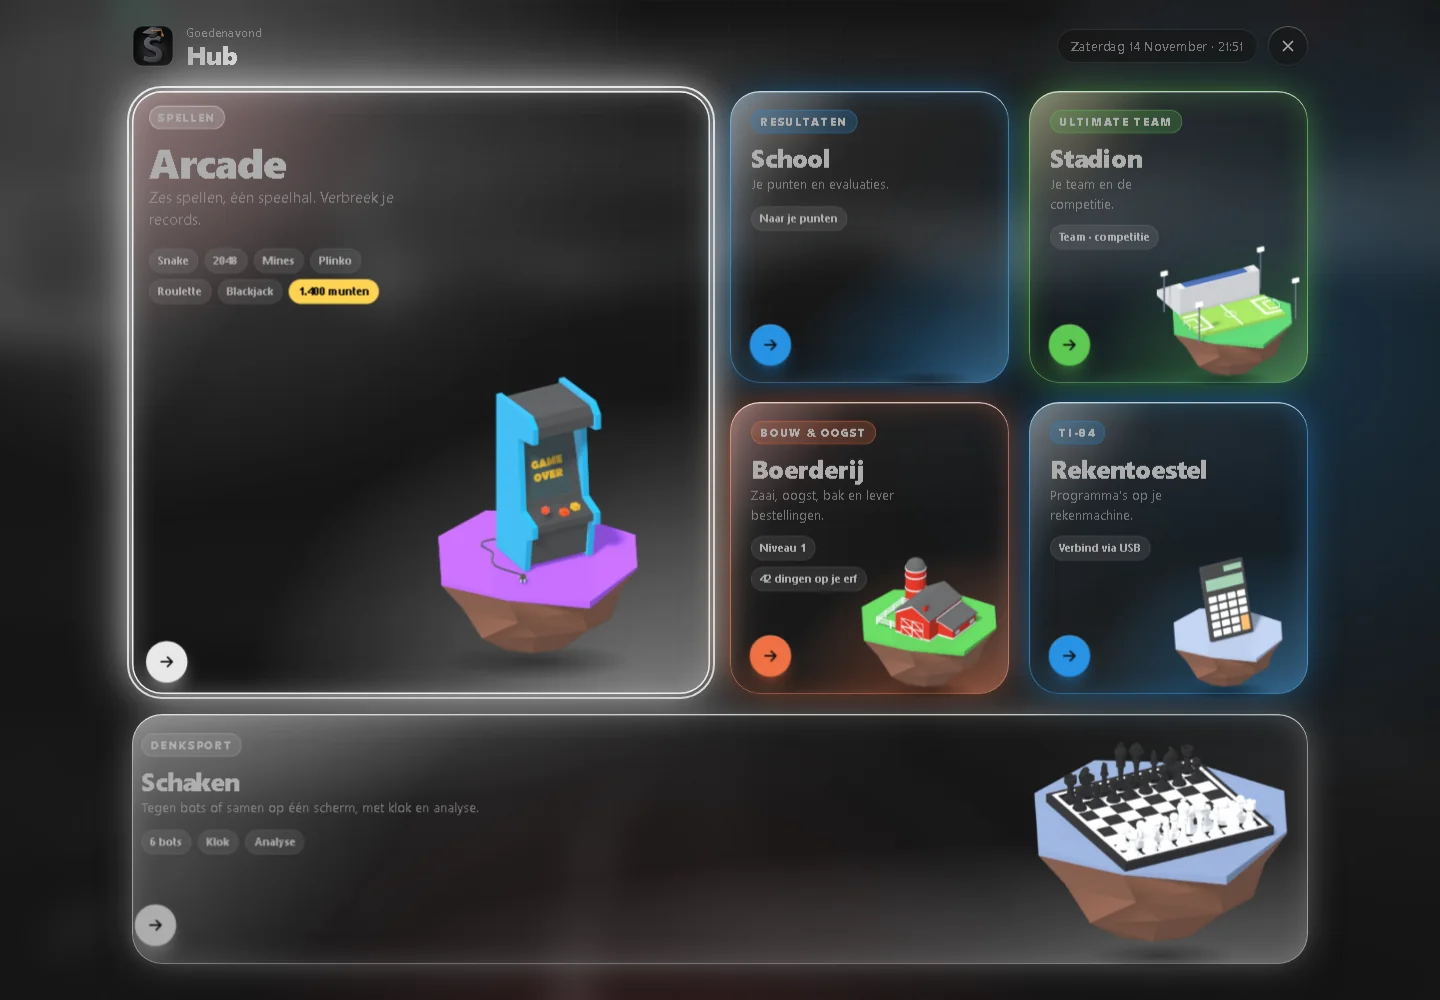
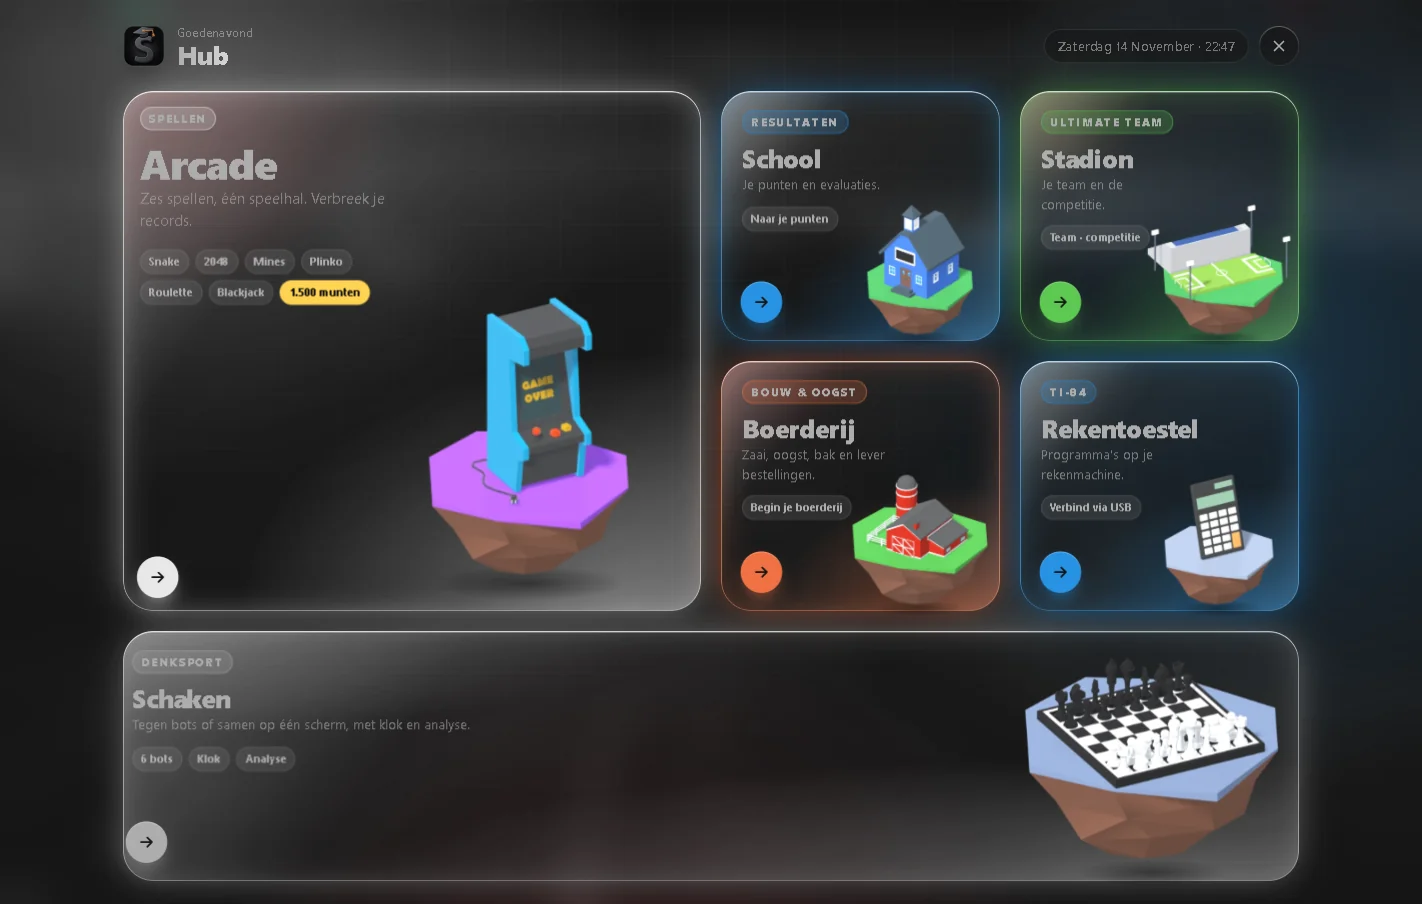
Update README: donate block above the hub, Deluxe hub screenshot, structure follows the TikTok

diff --git a/README.md b/README.md
@@ -5,8 +5,8 @@
 <h1 align="center">Smartschool Combined</h1>
 
 <p align="center">
-  The ultimate Smartschool upgrade: themes, a hub with games, Ultimate Team cards built from your grades, a class league, chess and more.<br>
-  <b>Free for Microsoft Edge.</b>
+  Smartschool, maar dan beter: thema's, een hub met games, Ultimate Team-kaarten van je cijfers, een klascompetitie, schaken en meer.<br>
+  <b>Gratis voor Microsoft Edge.</b> / Smartschool, but better: themes, a hub with games, Ultimate Team cards from your grades, a class league, chess and more.
 </p>
 
 <p align="center">
@@ -18,46 +18,60 @@
 </p>
 
 <p align="center">
-  <img src="assets/screenshots/hub.webp" alt="The Islands hub" width="860">
+  <b>Vind je het handig? Steun de ontwikkeling. / Like it? Support development.</b><br><br>
+  <a href="https://ko-fi.com/smartschoolcombined"><img src="https://img.shields.io/badge/Ko--fi-Trakteer%20op%20een%20koffie-FF5E5B?style=for-the-badge&logo=kofi&logoColor=white" alt="Doneer via Ko-fi"></a>
+  <a href="https://paypal.me/smartschoolcombined"><img src="https://img.shields.io/badge/PayPal-Doneer-00457C?style=for-the-badge&logo=paypal&logoColor=white" alt="Doneer via PayPal"></a>
 </p>
 
 <p align="center">
-  <b>Vind je het handig? Steun de ontwikkeling. / Like it? Support development.</b><br>
-  <a href="https://ko-fi.com/smartschoolcombined"><img src="https://img.shields.io/badge/Ko--fi-Trakteer%20op%20een%20koffie-FF5E5B?style=for-the-badge&logo=kofi&logoColor=white" alt="Doneer via Ko-fi"></a>
-  <a href="https://paypal.me/smartschoolcombined"><img src="https://img.shields.io/badge/PayPal-Doneer-00457C?style=for-the-badge&logo=paypal&logoColor=white" alt="Doneer via PayPal"></a>
+  <img src="assets/screenshots/hub.webp" alt="The Islands hub" width="860">
 </p>
 
 ---
 
 ## Nederlands
 
-Smartschool Combined is een browserextensie die Smartschool mooier en leuker maakt. Alles draait in je eigen browser, op de Smartschool-pagina zelf. Er is geen apart account nodig.
+**Smartschool, maar dan beter.** Smartschool Combined is een browserextensie die Smartschool mooier maakt en er spelletjes aan toevoegt. Alles draait in je eigen browser, op de Smartschool-pagina zelf. Er is geen apart account nodig.
 
-### Functies
-
-**Uiterlijk**
-- Thema's en live achtergronden (donker, licht, bergen, Japan, auto's, ruimte en meer), of een eigen thema met je eigen afbeelding.
+### 1. Pas het uiterlijk aan
 - Een vernieuwde inlogpagina in glass-stijl, met de knoppen voor Microsoft en de andere aanmeldopties.
-- Een transparante bovenbalk als je dat wilt.
+- Een transparante bovenbalk, als je dat wilt.
 - Widgets en notities op de startpagina.
 
-**Islands, de hub**
-Eén scherm met zes eilanden, te openen met de knop "Islands" bovenaan:
-- **Arcade**: Snake, 2048, Mines, Plinko, Roulette en Blackjack, met munten en records.
-- **School**: snel naar je punten en evaluaties.
+### 2. Kies je eigen stijl
+- Thema's en live achtergronden: donker, licht, bergen, Japan, auto's, ruimte en meer.
+- Of maak een eigen thema met je eigen afbeelding.
+
+### 3. Alles op één plek: de Islands-hub
+Eén scherm met zes eilanden, te openen met de knop "Islands" bovenaan. Elk eiland wordt hieronder verder uitgelegd.
+- **Arcade**: speelhal met games en munten.
 - **Stadion**: je Ultimate Team en de klascompetitie.
-- **Boerderij**: zaaien, oogsten, bakken en bestellingen leveren.
+- **Boerderij**: bouw je eigen boerderij.
+- **School**: snel naar je punten en evaluaties.
 - **Schaken**: tegen zes bots met klok en analyse na de partij, of samen op één scherm.
 - **Rekentoestel**: programma's naar je TI-84 sturen via USB (nu alleen voor de ingestelde klas).
 
-**Cijfers**
-- Cijfers onthullen met animaties, zoals een pakje openen.
-- Percentages bij de cijfers in het rooster.
+### 4. Unbox je punten
+- Elk nieuw cijfer opent als een pakje: eerst de onthulling met animatie.
+- Daarna verschijnt je kaart met een walkout-animatie.
+- Percentages staan naast de cijfers in het rooster.
 
-**Ultimate Team en competitie**
+### 5. Maak met je punten je eigen team
 - Je cijfers worden spelerskaarten. Elk vak is een kaart met een rating.
-- Stel je team op in een formatie, open pakketten en bekijk walkout-animaties.
+- Stel je team op in een formatie en open pakketten.
+
+### 6. Speel tegen je klas
 - Speel elk weekend in de klascompetitie tegen je klasgenoten.
+
+### 7. Speel games voor munten
+- In de arcade: Snake, 2048, Mines, Plinko, Roulette en Blackjack, met munten en records.
+
+### 8. Bouw met je munten je eigen boerderij
+- Zaaien, oogsten, bakken en bestellingen leveren.
+
+### 9. Extra munten: los puzzels op
+- Draai de buizen tot er een weg loopt van pijl naar pijl. Dat levert 100 munten op.
+- Soms komt er ook een logicapuzzel voorbij.
 
 <table align="center">
   <tr>
@@ -98,33 +112,62 @@ Let op: deze broncode bevat geen achtergrondafbeeldingen, geluiden en Firebase-s
 
 ## English
 
-Smartschool Combined is a browser extension that makes Smartschool look better and adds fun on top. Everything runs in your own browser, on the Smartschool page itself. No extra account is needed.
+**Smartschool, but better.** Smartschool Combined is a browser extension that makes Smartschool look better and adds games on top. Everything runs in your own browser, on the Smartschool page itself. No extra account is needed.
 
-### Features
-
-**Look and feel**
-- Themes and live wallpapers (dark, light, mountains, Japan, cars, space and more), or a custom theme with your own image.
+### 1. Customise the look
 - A redesigned glass-style login page, keeping the Microsoft button and the other sign-in options.
 - An optional transparent top bar.
 - Widgets and notes on the start page.
 
-**Islands, the hub**
-One screen with six islands, opened from the "Islands" button in the top bar:
-- **Arcade**: Snake, 2048, Mines, Plinko, Roulette and Blackjack, with coins and high scores.
-- **School**: a shortcut to your grades and evaluations.
+### 2. Pick your own style
+- Themes and live wallpapers: dark, light, mountains, Japan, cars, space and more.
+- Or make a custom theme with your own image.
+
+### 3. Everything in one place: the Islands hub
+One screen with six islands, opened from the "Islands" button in the top bar. Each island is explained further below.
+- **Arcade**: a game hall with coins.
 - **Stadium**: your Ultimate Team and the class league.
-- **Farm**: plant, harvest, bake and deliver orders.
+- **Farm**: build your own farm.
+- **School**: a shortcut to your grades and evaluations.
 - **Chess**: play six bots with a clock and post-game analysis, or two players on one screen.
 - **Calculator**: send programs to your TI-84 over USB (currently limited to one configured class).
 
-**Grades**
-- Reveal new grades with animations, like opening a pack.
-- Percentages next to grades in the grid.
+### 4. Unbox your points
+- Every new grade opens like a pack: first the reveal animation.
+- Then your card appears with a walkout animation.
+- Percentages sit next to the grades in the grid.
 
-**Ultimate Team and league**
+### 5. Build your own team with your points
 - Your grades become player cards: every subject is a card with a rating.
-- Pick a formation, open packs and watch walkout animations.
+- Pick a formation and open packs.
+
+### 6. Play against your class
 - Play your classmates every weekend in the class league.
+
+### 7. Play games for coins
+- In the arcade: Snake, 2048, Mines, Plinko, Roulette and Blackjack, with coins and high scores.
+
+### 8. Build your own farm with your coins
+- Plant, harvest, bake and deliver orders.
+
+### 9. Extra coins: solve puzzles
+- Turn the pipes until one track runs from arrow to arrow. That gives 100 coins.
+- Now and then a logic puzzle shows up too.
+
+<table align="center">
+  <tr>
+    <td><img src="assets/screenshots/arcade.webp" alt="Arcade" width="400"></td>
+    <td><img src="assets/screenshots/team.webp" alt="Ultimate Team" width="400"></td>
+  </tr>
+  <tr>
+    <td><img src="assets/screenshots/league.webp" alt="League" width="400"></td>
+    <td><img src="assets/screenshots/settings.webp" alt="Themes" width="400"></td>
+  </tr>
+  <tr>
+    <td><img src="assets/screenshots/login.webp" alt="Login page" width="400"></td>
+    <td><img src="assets/screenshots/welcome.webp" alt="Welcome" width="400"></td>
+  </tr>
+</table>
 
 ### Install
 
